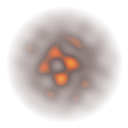
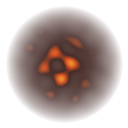
Pyre ember overlay: larger and more opaque
Bake higher alpha into ember.png (solid interior, fade only at the rim) and scale
the overlay up (0.6 -> 0.9) so the molten coals fill more of the crate mouth.

diff --git a/graphics/ember.gen.py b/graphics/ember.gen.py
@@ -60,10 +60,10 @@ def main():
                 c = (int(lerp(GLOW[0], HOT[0], t)),
                      int(lerp(GLOW[1], HOT[1], t)),
                      int(lerp(GLOW[2], HOT[2], t)))
-            # Partly opaque: glowing bits read stronger; everything fades out at the
-            # rim so it blends onto the crate with no hard square/circle edge.
-            edge = 1.0 - (d ** 2)
-            alpha = int(max(0, min(255, (110 + heat * 130) * edge)))
+            # Mostly opaque: the interior stays solid (so the embers read strongly on
+            # the crate) and only the rim fades, so there's no hard edge.
+            edge = max(0.0, 1.0 - (d ** 3))
+            alpha = int(max(0, min(255, (200 + heat * 55) * edge)))
             put(x, y, (c[0], c[1], c[2], alpha))
 
     raw = bytearray()